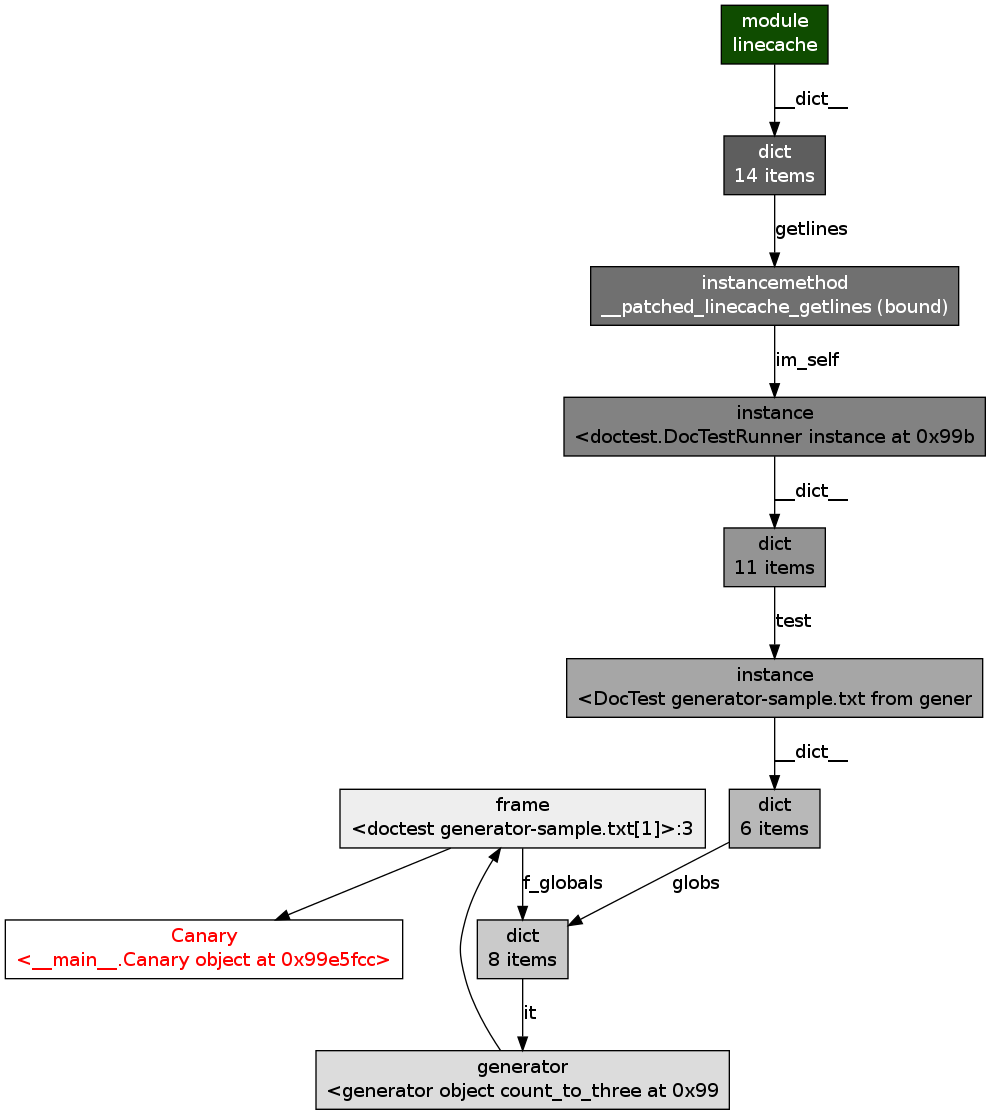
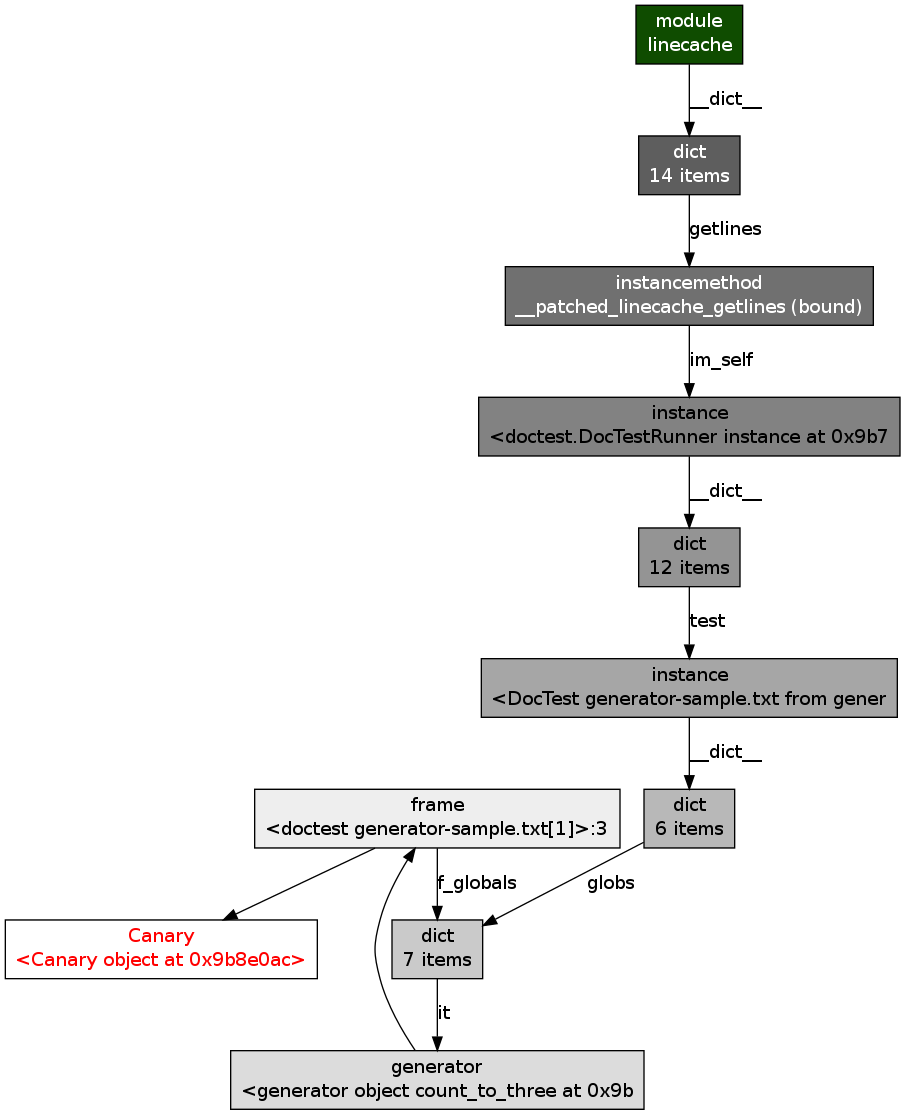
Make the tests pass on Python 2.7.  Make 'make images' work again.

diff --git a/setup.py b/setup.py
@@ -1,5 +1,5 @@
 #!/usr/bin/python
-import os, sys, doctest, glob
+import os, sys, unittest, doctest, glob
 
 try:
     from setuptools import setup
@@ -39,9 +39,11 @@ def get_description():
 
 
 def build_images():
-    sources = glob.glob('*.txt')
-    for fn in sources:
-        doctest.testfile(fn, optionflags=doctest.ELLIPSIS)
+    import tests
+    suite = doctest.DocFileSuite(optionflags=doctest.ELLIPSIS,
+                                 checker=tests.MyChecker(),
+                                 *glob.glob('*.txt'))
+    unittest.TextTestRunner().run(suite)
 
 
 if len(sys.argv) > 1 and sys.argv[1] == '--build-images':
